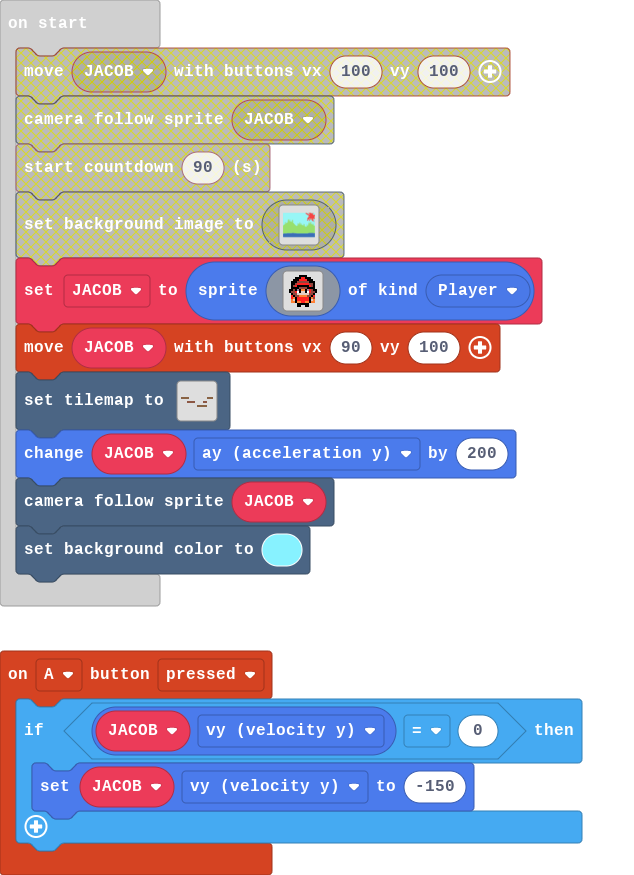
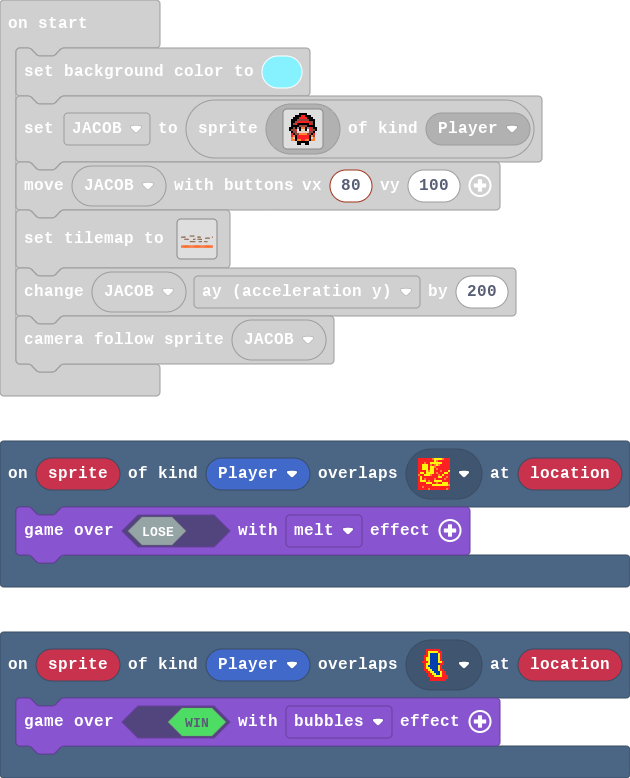
Update main.blocks, main.ts, tilemap.g.jres, tilemap.g.ts

diff --git a/tilemap.g.ts b/tilemap.g.ts
@@ -8,6 +8,12 @@ namespace myTiles {
     export const tile4 = image.ofBuffer(hex``);
     //% fixedInstance jres blockIdentity=images._tile
     export const tile1 = image.ofBuffer(hex``);
+    //% fixedInstance jres blockIdentity=images._tile
+    export const tile2 = image.ofBuffer(hex``);
+    //% fixedInstance jres blockIdentity=images._tile
+    export const tile5 = image.ofBuffer(hex``);
+    //% fixedInstance jres blockIdentity=images._tile
+    export const tile6 = image.ofBuffer(hex``);
 
     helpers._registerFactory("tilemap", function(name: string) {
         switch(helpers.stringTrim(name)) {
@@ -69,24 +75,24 @@ namespace myTiles {
 . . . . . . . . . . . . . . . . 
 `, [myTiles.transparency16], TileScale.Sixteen);
             case "level4":
-            case "level4":return tiles.createTilemap(hex`1000100000000000000000000000000000000000000000000000000000000000000000000000000000000000000000000000000000000000000000000000000000000000000000000000000000000000000000000000000000000000000000000000000001010101000000000000000000010101000000000000000000000000000000000000000202020200000000020200000000000000000000000000000000000000000000000000000001010101010000000000000000000000000000000000000000000000000000000000000000000000000000000000000000000000000000000000000000000000000000000000000000000000000000000000000000000000`, img`
-. . . . . . . . . . . . . . . . 
-. . . . . . . . . . . . . . . . 
-. . . . . . . . . . . . . . . . 
-. . . . . . . . . . . . . . . . 
-. . . . . . . . . . . . . . . . 
-. . . . . . . . . . . . . . . . 
-2 2 2 2 2 2 2 . . . . . . 2 2 2 
-. . . . . . . . . . . . . . . . 
-. . . 2 2 2 2 2 . . . 2 2 . . . 
-. . . . . . . . . . . . . . . . 
-. . . . . . . . 2 2 2 2 2 . . . 
-. . . . . . . . . . . . . . . . 
-. . . . . . . . . . . . . . . . 
-. . . . . . . . . . . . . . . . 
-. . . . . . . . . . . . . . . . 
-. . . . . . . . . . . . . . . . 
-`, [myTiles.transparency16,myTiles.tile4,myTiles.tile1], TileScale.Sixteen);
[1 lines of base64/hex data omitted]
+.............................
+.............................
+.............................
+.............................
+.............................
+........2222.................
+2222...........222...........
+......................2222...
+...22222...22..2222..........
+.............................
+........22222...222..222.....
+.............................
+.............................
+.............................
+.............................
+.............................
+`, [myTiles.transparency16,myTiles.tile4,myTiles.tile1,myTiles.tile5,myTiles.tile6], TileScale.Sixteen);
         }
         return null;
     })
@@ -100,6 +106,12 @@ namespace myTiles {
             case "tile4":return tile4;
             case "myTile":
             case "tile1":return tile1;
+            case "myTile0":
+            case "tile2":return tile2;
+            case "myTile3":
+            case "tile5":return tile5;
+            case "portal":
+            case "tile6":return tile6;
         }
         return null;
     })

diff --git a/main.ts b/main.ts
@@ -3,10 +3,16 @@ controller.A.onEvent(ControllerButtonEvent.Pressed, function () {
         JACOB.vy = -150
     }
 })
+scene.onOverlapTile(SpriteKind.Player, assets.tile`portal`, function (sprite, location) {
+    game.over(true, effects.bubbles)
+})
+scene.onOverlapTile(SpriteKind.Player, assets.tile`myTile3`, function (sprite, location) {
+    game.over(false, effects.melt)
+})
 let JACOB: Sprite = null
 scene.setBackgroundColor(9)
 JACOB = sprites.create(assets.image`JACOB`, SpriteKind.Player)
-controller.moveSprite(JACOB, 90, 100)
+controller.moveSprite(JACOB, 80, 100)
 tiles.setTilemap(tilemap`level4`)
 JACOB.ay += 200
 scene.cameraFollowSprite(JACOB)
